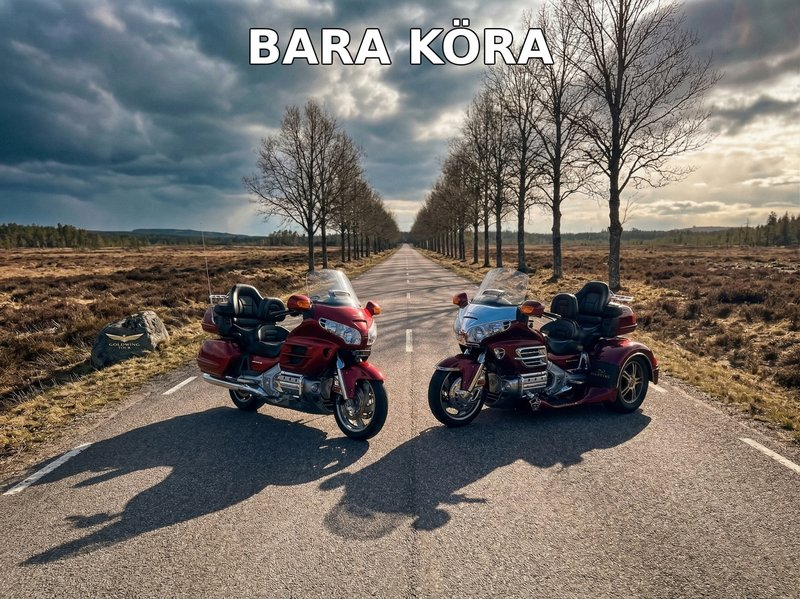
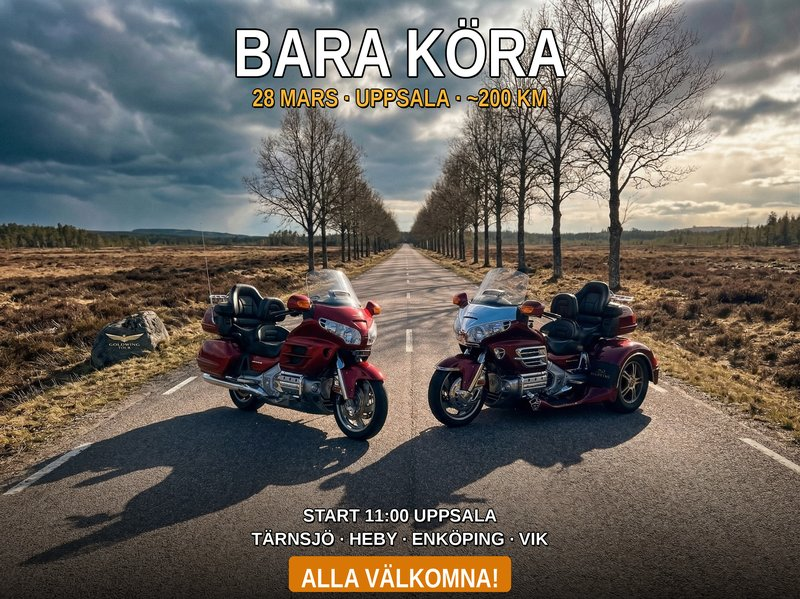
Add Bara Köra event - personal ride Mar 28, Uppsala runt

Changed region(s): [[0.0, 0.7513, 1.0, 1.0], [0.2812, 0.0301, 0.7188, 0.1803]]

diff --git a/events.js b/events.js
@@ -2465,6 +2465,33 @@ const EVENTS_DATA = {
                   "source": "facebook.com"
             },
             {
+                  "id": "bara-kora-uppsala-2026-03-28",
+                  "name": "Bara Köra",
+                  "date": "2026-03-28",
+                  "dateEnd": "2026-03-28",
+                  "location": "Ulleråkersvägen 58, Uppsala",
+                  "type": "Körning",
+                  "organizer": "MC Kalendern / Slava",
+                  "description": "Ingen klubb, bara frihet. Två Gold Wing-förare drar ut på en runda genom Uppland. Alla välkomna att hänga med!",
+                  "descriptionFull": "Ingen klubb, bara frihet. Vi är två Gold Wing-förare som drar ut på en dagstur genom Uppland. Alla som vill hänga med är välkomna, oavsett hoj.\n\nRutt (~200 km, ~5 timmar):\n11:00 – Samling vid Ulleråkersvägen 58, Uppsala\n11:30 – Avfärd\nTärnsjö Pizzeria – lunch\nHeby – tankning\nEnköping – fika\nViks slott – stopp\n~16:00 – Tillbaka i Uppsala\n\nKontakt: 076-033 53 68 (Slava, Swenglish speaker)",
+                  "frontImage": "ads/bara-kora-front-2026-03-28.jpg",
+                  "backImage": "ads/bara-kora-back-2026-03-28.jpg",
+                  "links": [
+                        {
+                              "label": "Karta",
+                              "url": "https://www.google.com/maps/search/?api=1&query=Ulleråkersvägen+58,+Uppsala",
+                              "type": "map"
+                        },
+                        {
+                              "label": "druk.se",
+                              "url": "https://druk.se"
+                        }
+                  ],
+                  "link": "https://druk.se",
+                  "region": "Uppsala",
+                  "source": "druk.se"
+            },
+            {
                   "id": "ava-mc-dagen-gustavsberg-2026",
                   "name": "AVA MC Dagen",
                   "date": "2026-03-28",
@@ -2934,33 +2961,6 @@ const EVENTS_DATA = {
                   "region": "Stockholm",
                   "source": "facebook.com",
                   "backImage": "ads/norra-sthlm-grus-back-2026-03-28.jpg"
-            },
-            {
-                  "id": "bara-kora-uppsala-2026-03-28",
-                  "name": "Bara Köra",
-                  "date": "2026-03-28",
-                  "dateEnd": "2026-03-28",
-                  "location": "Ulleråkersvägen 58, Uppsala",
-                  "type": "Körning",
-                  "organizer": "MC Kalendern / Slava",
-                  "description": "Ingen klubb, bara frihet. Två Gold Wing-förare drar ut på en runda genom Uppland. Alla välkomna att hänga med!",
-                  "descriptionFull": "Ingen klubb, bara frihet. Vi är två Gold Wing-förare som drar ut på en dagstur genom Uppland. Alla som vill hänga med är välkomna, oavsett hoj.\n\nRutt (~200 km, ~5 timmar):\n11:00 – Samling vid Ulleråkersvägen 58, Uppsala\n11:30 – Avfärd\nTärnsjö Pizzeria – lunch\nHeby – tankning\nEnköping – fika\nViks slott – stopp\n~16:00 – Tillbaka i Uppsala\n\nKontakt: 076-033 53 68 (Slava, Swenglish speaker)",
-                  "frontImage": "ads/bara-kora-front-2026-03-28.jpg",
-                  "backImage": "ads/bara-kora-back-2026-03-28.jpg",
-                  "links": [
-                        {
-                              "label": "Karta",
-                              "url": "https://www.google.com/maps/search/?api=1&query=Ulleråkersvägen+58,+Uppsala",
-                              "type": "map"
-                        },
-                        {
-                              "label": "druk.se",
-                              "url": "https://druk.se"
-                        }
-                  ],
-                  "link": "https://druk.se",
-                  "region": "Uppsala",
-                  "source": "druk.se"
             },
             {
                   "id": "ttc-årsmöte-smc-dalarna-2026",